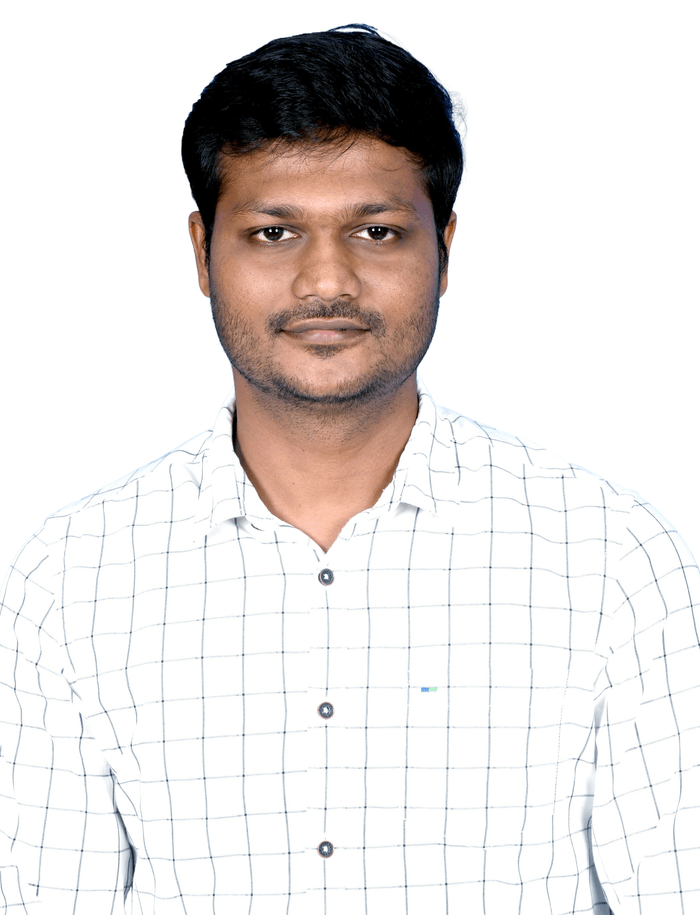
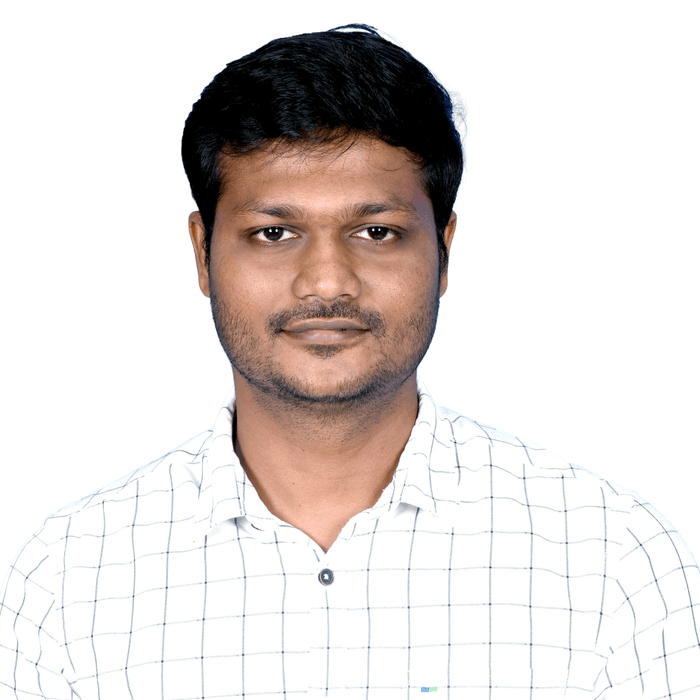
Add rule-based portfolio chatbot and fix profile photo crop
Chatbot greets visitors, branches recruiter vs. visitor, and answers
via quick-reply buttons or free-text keyword matching, pulling content
straight from lib/data.ts. Profile photo is recropped so the full head
is centered instead of clipped at the top.

diff --git a/components/chatbot.tsx b/components/chatbot.tsx
@@ -1,0 +1,302 @@
+"use client";
+
+import { AnimatePresence, motion } from "framer-motion";
+import { Fragment, useEffect, useRef, useState } from "react";
+import { FiDownload, FiMessageCircle, FiSend, FiX } from "react-icons/fi";
+import { profile } from "@/lib/data";
+import {
+  botReplies,
+  matchKeyword,
+  recruiterMenu,
+  visitorMenu,
+  type QuickReply,
+} from "@/lib/chatbot-data";
+
+type Role = "recruiter" | "visitor" | null;
+
+type ChatMessage = {
+  id: string;
+  from: "bot" | "user";
+  text: string;
+  showResumeLink?: boolean;
+};
+
+let idCounter = 0;
+const nextId = () => `msg-${++idCounter}`;
+
+function formatText(text: string) {
+  return text.split("\n").map((line, i) => {
+    const parts = line.split(/(\*\*[^*]+\*\*)/g);
+    return (
+      <Fragment key={i}>
+        {i > 0 && <br />}
+        {parts.map((part, j) =>
+          part.startsWith("**") && part.endsWith("**") ? (
+            <strong key={j}>{part.slice(2, -2)}</strong>
+          ) : (
+            <Fragment key={j}>{part}</Fragment>
+          )
+        )}
+      </Fragment>
+    );
+  });
+}
+
+const roleMenu: QuickReply[] = [
+  { label: "🧑💼 I'm a Recruiter", action: "role:recruiter" },
+  { label: "👀 Just Visiting", action: "role:visitor" },
+];
+
+const mainMenuReply: QuickReply = { label: "🔁 Main Menu", action: "menu" };
+
+export function Chatbot() {
+  const [open, setOpen] = useState(false);
+  const [messages, setMessages] = useState<ChatMessage[]>([]);
+  const [quickReplies, setQuickReplies] = useState<QuickReply[]>(roleMenu);
+  const [role, setRole] = useState<Role>(null);
+  const [typing, setTyping] = useState(false);
+  const [input, setInput] = useState("");
+  const scrollRef = useRef<HTMLDivElement>(null);
+
+  function openChat() {
+    setOpen(true);
+    if (messages.length > 0) return;
+    setTyping(true);
+    setTimeout(() => {
+      setTyping(false);
+      setMessages([
+        {
+          id: nextId(),
+          from: "bot",
+          text: `Hi! I'm Sunil's portfolio assistant 👋 How can I help — are you a recruiter, or just visiting?`,
+        },
+      ]);
+      setQuickReplies(roleMenu);
+    }, 500);
+  }
+
+  useEffect(() => {
+    scrollRef.current?.scrollTo({
+      top: scrollRef.current.scrollHeight,
+      behavior: "smooth",
+    });
+  }, [messages, typing, quickReplies]);
+
+  function pushUser(text: string) {
+    setMessages((prev) => [...prev, { id: nextId(), from: "user", text }]);
+  }
+
+  function pushBot(text: string, replies: QuickReply[], showResumeLink = false) {
+    setTyping(true);
+    setQuickReplies([]);
+    setTimeout(() => {
+      setTyping(false);
+      setMessages((prev) => [
+        ...prev,
+        { id: nextId(), from: "bot", text, showResumeLink },
+      ]);
+      setQuickReplies(replies);
+    }, 450);
+  }
+
+  function menuFor(currentRole: Role) {
+    return currentRole === "recruiter" ? recruiterMenu : visitorMenu;
+  }
+
+  function handleAction(action: string, label: string) {
+    pushUser(label);
+
+    if (action === "role:recruiter" || action === "role:visitor") {
+      const chosen: Role = action === "role:recruiter" ? "recruiter" : "visitor";
+      setRole(chosen);
+      const intro =
+        chosen === "recruiter"
+          ? "Great — happy to help you evaluate fit. Here's what I can share:"
+          : "Nice to have you here! Feel free to explore:";
+      pushBot(intro, [...menuFor(chosen), mainMenuReply]);
+      return;
+    }
+
+    if (action === "menu") {
+      if (!role) {
+        pushBot("Sure — are you a recruiter, or just visiting?", roleMenu);
+      } else {
+        pushBot("Sure — what would you like to know?", [
+          ...menuFor(role),
+          mainMenuReply,
+        ]);
+      }
+      return;
+    }
+
+    const reply = botReplies[action];
+    if (reply) {
+      pushBot(reply(), [...menuFor(role), mainMenuReply], action === "resume");
+      return;
+    }
+
+    pushBot("Here's what I can help with:", [...roleMenu, mainMenuReply]);
+  }
+
+  function handleSubmit(e: React.FormEvent) {
+    e.preventDefault();
+    const text = input.trim();
+    if (!text) return;
+    setInput("");
+    pushUser(text);
+
+    const matched = matchKeyword(text);
+    if (matched && botReplies[matched]) {
+      pushBot(botReplies[matched](), [...menuFor(role), mainMenuReply], matched === "resume");
+    } else {
+      pushBot(
+        "I'm not totally sure about that one — but here's what I can help with:",
+        role ? [...menuFor(role), mainMenuReply] : roleMenu
+      );
+    }
+  }
+
+  return (
+    <div className="fixed bottom-5 right-5 z-50 flex flex-col items-end gap-3">
+      <AnimatePresence>
+        {open && (
+          <motion.div
+            initial={{ opacity: 0, y: 20, scale: 0.95 }}
+            animate={{ opacity: 1, y: 0, scale: 1 }}
+            exit={{ opacity: 0, y: 20, scale: 0.95 }}
+            transition={{ duration: 0.2, ease: "easeOut" }}
+            className="flex h-[28rem] w-[22rem] max-w-[90vw] flex-col overflow-hidden rounded-2xl border border-border bg-surface shadow-2xl"
+          >
+            <div className="flex items-center justify-between bg-gradient-to-br from-primary to-accent px-4 py-3 text-white">
+              <div>
+                <p className="text-sm font-semibold">Portfolio Assistant</p>
+                <p className="text-xs text-white/80">
+                  Ask about {profile.name.split(" ")[0]}&apos;s work
+                </p>
+              </div>
+              <button
+                type="button"
+                onClick={() => setOpen(false)}
+                aria-label="Close chat"
+                className="flex h-8 w-8 items-center justify-center rounded-full transition-colors hover:bg-white/20 cursor-pointer"
+              >
+                <FiX size={16} />
+              </button>
+            </div>
+
+            <div
+              ref={scrollRef}
+              className="flex-1 space-y-3 overflow-y-auto px-4 py-4"
+            >
+              {messages.map((m) => (
+                <motion.div
+                  key={m.id}
+                  initial={{ opacity: 0, y: 8 }}
+                  animate={{ opacity: 1, y: 0 }}
+                  transition={{ duration: 0.2 }}
+                  className={`flex ${m.from === "user" ? "justify-end" : "justify-start"}`}
+                >
+                  <div
+                    className={`max-w-[85%] rounded-2xl px-3.5 py-2 text-sm leading-relaxed ${
+                      m.from === "user"
+                        ? "rounded-br-sm bg-primary text-white"
+                        : "rounded-bl-sm bg-surface-hover text-foreground"
+                    }`}
+                  >
+                    {formatText(m.text)}
+                    {m.showResumeLink && (
+                      <a
+                        href={profile.resumeUrl}
+                        download
+                        className="mt-2 inline-flex items-center gap-1.5 rounded-full bg-primary px-3 py-1.5 text-xs font-semibold text-white transition-transform hover:scale-105"
+                      >
+                        <FiDownload size={12} /> Download Resume
+                      </a>
+                    )}
+                  </div>
+                </motion.div>
+              ))}
+
+              {typing && (
+                <div className="flex justify-start">
+                  <div className="flex items-center gap-1 rounded-2xl rounded-bl-sm bg-surface-hover px-4 py-3">
+                    {[0, 1, 2].map((i) => (
+                      <motion.span
+                        key={i}
+                        className="h-1.5 w-1.5 rounded-full bg-muted"
+                        animate={{ opacity: [0.3, 1, 0.3] }}
+                        transition={{
+                          duration: 1,
+                          repeat: Infinity,
+                          delay: i * 0.15,
+                        }}
+                      />
+                    ))}
+                  </div>
+                </div>
+              )}
+
+              {!typing && quickReplies.length > 0 && (
+                <div className="flex flex-wrap gap-2 pt-1">
+                  {quickReplies.map((qr) => (
+                    <motion.button
+                      key={qr.action}
+                      type="button"
+                      whileHover={{ scale: 1.04 }}
+                      whileTap={{ scale: 0.96 }}
+                      onClick={() => handleAction(qr.action, qr.label)}
+                      className="rounded-full border border-primary/40 bg-primary/5 px-3 py-1.5 text-xs font-medium text-primary transition-colors hover:bg-primary/10 cursor-pointer"
+                    >
+                      {qr.label}
+                    </motion.button>
+                  ))}
+                </div>
+              )}
+            </div>
+
+            <form
+              onSubmit={handleSubmit}
+              className="flex items-center gap-2 border-t border-border p-3"
+            >
+              <input
+                value={input}
+                onChange={(e) => setInput(e.target.value)}
+                placeholder="Type a question…"
+                className="flex-1 rounded-full border border-border bg-background px-3.5 py-2 text-sm outline-none focus:border-primary"
+              />
+              <motion.button
+                type="submit"
+                whileTap={{ scale: 0.9 }}
+                aria-label="Send"
+                className="flex h-9 w-9 shrink-0 items-center justify-center rounded-full bg-primary text-white cursor-pointer"
+              >
+                <FiSend size={14} />
+              </motion.button>
+            </form>
+          </motion.div>
+        )}
+      </AnimatePresence>
+
+      <motion.button
+        type="button"
+        onClick={() => (open ? setOpen(false) : openChat())}
+        whileHover={{ scale: 1.08 }}
+        whileTap={{ scale: 0.92 }}
+        aria-label={open ? "Close chat assistant" : "Open chat assistant"}
+        className="flex h-14 w-14 items-center justify-center rounded-full bg-gradient-to-br from-primary to-accent text-white shadow-xl cursor-pointer"
+      >
+        <AnimatePresence mode="wait" initial={false}>
+          <motion.span
+            key={open ? "x" : "chat"}
+            initial={{ opacity: 0, rotate: -45, scale: 0.6 }}
+            animate={{ opacity: 1, rotate: 0, scale: 1 }}
+            exit={{ opacity: 0, rotate: 45, scale: 0.6 }}
+            transition={{ duration: 0.2 }}
+          >
+            {open ? <FiX size={22} /> : <FiMessageCircle size={22} />}
+          </motion.span>
+        </AnimatePresence>
+      </motion.button>
+    </div>
+  );
+}

diff --git a/lib/chatbot-data.ts b/lib/chatbot-data.ts
@@ -1,0 +1,61 @@
+import { accomplishments, education, experience, profile, skillGroups } from "./data";
+
+export type QuickReply = {
+  label: string;
+  action: string;
+};
+
+export const recruiterMenu: QuickReply[] = [
+  { label: "📄 Resume", action: "resume" },
+  { label: "💼 Experience", action: "experience" },
+  { label: "🛠 Skills", action: "skills" },
+  { label: "🏆 Accomplishments", action: "accomplishments" },
+  { label: "📬 Contact", action: "contact" },
+];
+
+export const visitorMenu: QuickReply[] = [
+  { label: "👋 About Sunil", action: "about" },
+  { label: "💻 GitHub Projects", action: "projects" },
+  { label: "🛠 Skills", action: "skills" },
+  { label: "🎓 Education", action: "education" },
+  { label: "📬 Contact", action: "contact" },
+];
+
+export function latestRole() {
+  return experience[0];
+}
+
+export const botReplies: Record<string, () => string> = {
+  about: () => profile.about,
+  resume: () =>
+    `You can grab it right here — I've dropped a download link below. It covers all ${experience.length} roles across ${profile.tagline.includes("Manager") ? "13 years" : "his career"} in QA & test automation leadership.`,
+  experience: () => {
+    const latest = latestRole();
+    return `Currently: **${latest.role}** at **${latest.company}** (${latest.period}). Before that, he led QA automation at EY, Citicorp, KPMG, Accenture, and Barclays — 13 years total, spanning web, mobile, API, and now GenAI test evaluation. Full timeline is in the Experience section below.`;
+  },
+  skills: () =>
+    skillGroups
+      .map((g) => `**${g.category}:** ${g.skills.join(", ")}`)
+      .join("\n\n"),
+  accomplishments: () =>
+    accomplishments.map((a) => `🏅 ${a.title}`).join("\n"),
+  education: () =>
+    `${education.degree}\n${education.school} (${education.year})`,
+  projects: () =>
+    `Sunil's open-source work lives on GitHub — the Repositories section on this page pulls it in live. You can also browse directly.`,
+  contact: () =>
+    `Best ways to reach him:\n📧 ${profile.email}\n📱 ${profile.phone}\n💬 WhatsApp: ${profile.whatsapp}\n🔗 LinkedIn & GitHub links are below.`,
+};
+
+export function matchKeyword(text: string): string | null {
+  const t = text.toLowerCase();
+  if (/resume|cv/.test(t)) return "resume";
+  if (/experience|work|job|role|career/.test(t)) return "experience";
+  if (/skill|tech|stack|tool/.test(t)) return "skills";
+  if (/accomplish|award|achieve/.test(t)) return "accomplishments";
+  if (/education|degree|college|university/.test(t)) return "education";
+  if (/project|github|repo/.test(t)) return "projects";
+  if (/contact|email|phone|reach|linkedin|whatsapp/.test(t)) return "contact";
+  if (/about|who|introduc/.test(t)) return "about";
+  return null;
+}

diff --git a/app/layout.tsx b/app/layout.tsx
@@ -1,5 +1,6 @@
 import type { Metadata } from "next";
 import { Geist, Geist_Mono } from "next/font/google";
+import { Chatbot } from "@/components/chatbot";
 import { ThemeProvider, themeInitScript } from "@/components/theme-provider";
 import { profile } from "@/lib/data";
 import "./globals.css";
@@ -30,7 +31,10 @@ export default function RootLayout({ children }: LayoutProps<"/">) {
         <script dangerouslySetInnerHTML={{ __html: themeInitScript }} />
       </head>
       <body className="min-h-full flex flex-col bg-background text-foreground">
-        <ThemeProvider>{children}</ThemeProvider>
+        <ThemeProvider>
+          {children}
+          <Chatbot />
+        </ThemeProvider>
       </body>
     </html>
   );
